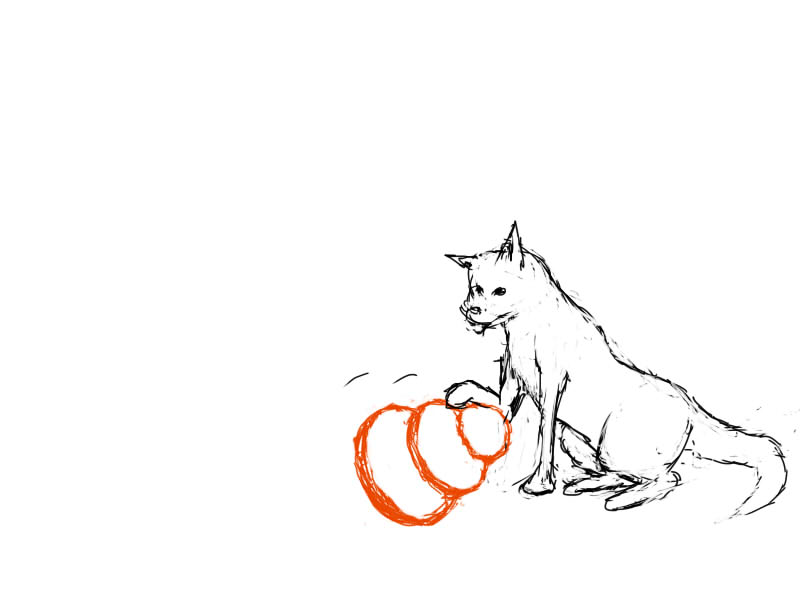
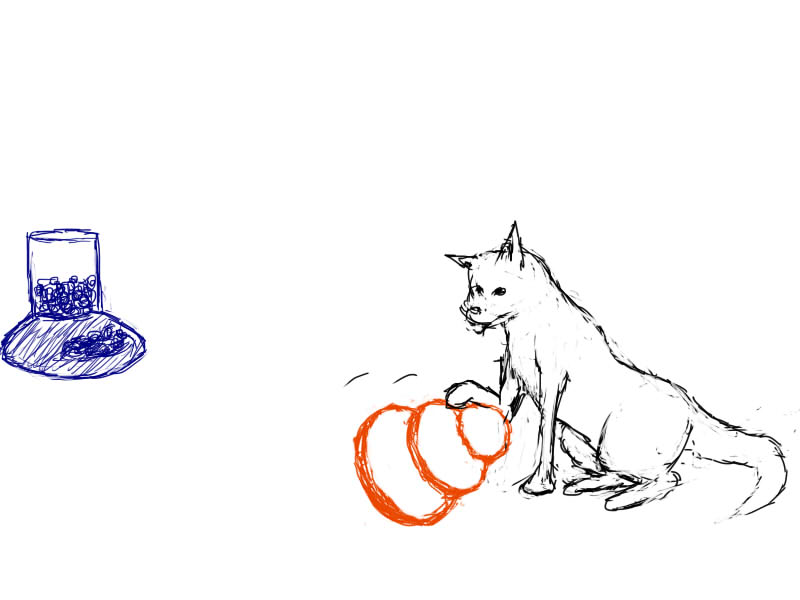
add feeder

Changed region(s): [[0.0, 0.36, 0.1875, 0.66]]

diff --git a/src/puppy.js b/src/puppy.js
@@ -2,6 +2,7 @@ import React, { Component } from 'react'
 import Wander from './img/wander.jpg'
 import Bat from './img/bat.jpg'
 import Stare from './img/stare.jpg'
+import Feed from './img/feed.jpg'
 import StatusSheet from './component/statusSheet'
 import Squeak from './sound/Copy of TS5 Squeaky.mp3'
 import Grid from '@material-ui/core/Grid'
@@ -13,12 +14,15 @@ class Puppy extends Component {
     super()
     this.state = {
       img: Wander,
-      score: 0
+      score: 0,
+      eat: 0
     }
     //function binds
     this.stare = this.stare.bind(this)
     this.wander = this.wander.bind(this)
     this.bat = this.bat.bind(this)
+    this.feed = this.feed.bind(this)
+    this.eating = this.eating.bind(this)
   }
 
   stare() {
@@ -33,6 +37,20 @@ class Puppy extends Component {
 
   bat() {
     this.setState({ img: Bat })
+  }
+
+  feed() {
+    this.setState({ img: Feed})
+  }
+
+  eating() {
+    let a = this.state.score
+    let b = this.state.eat
+    if (a > 0) {
+      a--
+      b++
+    }
+    this.setState({ score: a, eat: b })
   }
 
   render() {
@@ -59,12 +77,12 @@ class Puppy extends Component {
       }
     }
 
-    //       <div className="App" onMouseDown={this.bat} onMouseUp={this.stare} onMouseEnter={this.stare} onMouseLeave={this.wander} onClick={ () => audio.play() }>
+    //  <div className="App" onMouseDown={this.bat} onMouseUp={this.stare} onMouseEnter={this.stare} onMouseLeave={this.wander} onClick={ () => audio.play() }>
 
 
     return(
       <div className="App" >
-        <StatusSheet score={this.state.score} />
+        <StatusSheet score={this.state.score} eat={this.state.eat} />
         <Grid
           container
           direction="row"
@@ -84,13 +102,14 @@ class Puppy extends Component {
             <Box border={1} borderColor="red" style={styles.cell} />
           </Grid>
 
-          <Grid container item xs={3} spacing={0} >
+          <Grid container item xs={3} spacing={0} onMouseEnter={this.feed} onMouseLeave={this.wander} onClick={ this.eating }>
             <Box border={1} borderColor="red" style={styles.cell} />
           </Grid>
 
           {/* proximity */}
           <Grid container item xs={6} spacing={0}  onMouseEnter={this.stare} onMouseLeave={this.wander} >
             <Box border={1} borderColor="red" style={styles.bigcell} >
+              {/* toy box */}
               <Box border={1} borderColor="blue" style={styles.insidecell} onMouseDown={this.bat} onMouseUp={this.stare} onClick={ () => audio.play()}/>
             </Box>
           </Grid>

diff --git a/src/component/statusSheet.js b/src/component/statusSheet.js
@@ -6,6 +6,8 @@ class StatusSheet extends Component {
     return(
       <div>
       {this.props.score}
+      <br />
+      {this.props.eat} / 30
       </div>
     )
   }
